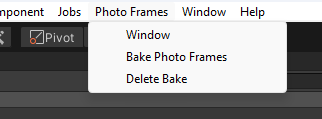
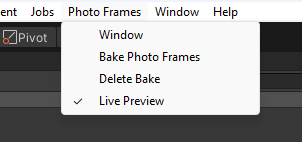
Adds live preview menu toggle, improves preview materials
- preview materials now use material property blocks instead of copying material

diff --git a/Special/PhotoFrame.cs b/Special/PhotoFrame.cs
@@ -25,8 +25,14 @@ namespace codec.PhotoFrame {
 
 		[NonSerialized] public RenderTexture resizeTexture;
 		[NonSerialized] public Texture photoInResizeTexture;
+		[NonSerialized] public MaterialPropertyBlock textureOverride;
+		[NonSerialized] public Material defaultMaterial;
 
 		public void Awake() {
+			if(!defaultMaterial) {
+				defaultMaterial = new Material(Shader.Find("Unlit/Texture"));
+				defaultMaterial.hideFlags = HideFlags.NotEditable;
+			}
 			//fixes duplication
 			if(!savedData && framePrefab) DestroyImmediate(framePrefab);
 			if(!savedData && meshFilter) DestroyImmediate(meshFilter);
@@ -224,8 +230,20 @@ namespace codec.PhotoFrame {
 			}
 		}
 
+		public void turnOffEditorPreview() {
+			if(savedData) return;
+			if(framePrefab) DestroyImmediate(framePrefab);
+			if(meshFilter) DestroyImmediate(meshFilter);
+			if(meshRenderer) DestroyImmediate(meshRenderer);
+			if(resizeTexture != null) resizeTexture.Release();
+			photoInResizeTexture = null;
+		}
+
 		public void updateEditorPreview() {
 			if(savedData) return;
+
+			bool livePreview = EditorPrefs.GetBool("wtf.codec.photo-frame-manager.livePreview", true);
+			if(!livePreview) return;
 
 			if(autoSelectFrameSize) doAutoSelectFrameSize();
 
@@ -250,6 +268,10 @@ namespace codec.PhotoFrame {
 				meshFilter.hideFlags = HideFlags.DontSaveInEditor | HideFlags.DontSaveInBuild | HideFlags.HideInInspector | HideFlags.NotEditable;
 			}
 
+			if(textureOverride == null) {
+				textureOverride = new MaterialPropertyBlock();
+			}
+
 			if(!meshRenderer) {
 				if(meshRenderer = gameObject.GetComponent<MeshRenderer>()) {
 					EditorUtility.SetDirty(meshRenderer);
@@ -265,14 +287,13 @@ namespace codec.PhotoFrame {
 			var size = getPhotoRealSize(frameAspectRatio);
 			SetupMesh(meshFilter.sharedMesh, size, uvMin, uvMax, false);
 
-			if(meshRenderer.sharedMaterial) DestroyImmediate(meshRenderer.sharedMaterial);
-			if(frameType && frameType.material) meshRenderer.sharedMaterial = Instantiate(frameType.material);
-			else meshRenderer.sharedMaterial = new Material(Shader.Find("Unlit/Texture"));
+			if(frameType && frameType.material) meshRenderer.sharedMaterial = frameType.material;
+			else meshRenderer.sharedMaterial = defaultMaterial;
 			updateResizeTexture();
-			if(frameType && frameType.textureSlot != "") meshRenderer.sharedMaterial.SetTexture(frameType.textureSlot, resizeTexture);
-			else meshRenderer.sharedMaterial.mainTexture = resizeTexture;
-
-			meshRenderer.sharedMaterial.hideFlags = HideFlags.HideInInspector | HideFlags.NotEditable;
+			textureOverride.Clear();
+			if(frameType && frameType.material && frameType.textureSlot != "") textureOverride.SetTexture(frameType.textureSlot, resizeTexture, UnityEngine.Rendering.RenderTextureSubElement.Default);
+			else textureOverride.SetTexture("_MainTex", resizeTexture, UnityEngine.Rendering.RenderTextureSubElement.Default);
+			meshRenderer.SetPropertyBlock(textureOverride);
 		}
 
 		public void setSavedData(string folder, Material material, Vector2 uvMin, Vector2 uvMax, bool uvRotate) {
@@ -285,7 +306,6 @@ namespace codec.PhotoFrame {
 				DestroyImmediate(meshFilter);
 			}
 			if(meshRenderer) {
-				if(meshRenderer.sharedMaterial) DestroyImmediate(meshRenderer.sharedMaterial);
 				DestroyImmediate(meshRenderer);
 			}
 

diff --git a/Editor/ManagerWindow.cs b/Editor/ManagerWindow.cs
@@ -9,13 +9,22 @@ using UnityEngine;
 using UnityEngine.SceneManagement;
 
 namespace codec.PhotoFrame {
+	[InitializeOnLoad]
 	public class ManagerWindow : EditorWindow {
 		public const string badData = "Misformatted Data";
 		public const string debugEditorPref = "wtf.codec.photo-frame-manager.debug";
+		public const string livePreviewEditorPref = "wtf.codec.photo-frame-manager.livePreview";
 
 		public int tabSelected;
 		public Vector2 scrollPosition;
 		public Vector2 debugScroll;
+
+		static ManagerWindow() {
+			EditorApplication.delayCall += () => {
+				bool livePreview = EditorPrefs.GetBool(livePreviewEditorPref, true);
+				Menu.SetChecked("Photo Frames/Live Preview", livePreview);
+			};
+		}
 
 		[MenuItem("Photo Frames/Window")]
 		[MenuItem("Window/Photo Frames")]
@@ -141,6 +150,19 @@ namespace codec.PhotoFrame {
 			finally {
 				AssetDatabase.StopAssetEditing();
 				EditorSceneManager.SaveScene(EditorSceneManager.GetActiveScene());
+			}
+		}
+
+		[MenuItem("Photo Frames/Live Preview")]
+		private static void ToggleAction() {
+			bool livePreview = !EditorPrefs.GetBool(livePreviewEditorPref, true);
+			if(livePreview) EditorPrefs.DeleteKey(livePreviewEditorPref);
+			else EditorPrefs.SetBool(livePreviewEditorPref, false);
+			Menu.SetChecked("Photo Frames/Live Preview", livePreview);
+
+			foreach(var photoFrame in FindObjectsOfType<PhotoFrame>()) {
+				if(livePreview) photoFrame.updateEditorPreview();
+				else photoFrame.turnOffEditorPreview();
 			}
 		}
 

diff --git a/Editor/PhotoFrameEditor.cs b/Editor/PhotoFrameEditor.cs
@@ -101,6 +101,10 @@ namespace codec.PhotoFrame {
 		public override void OnInspectorGUI() {
 			serializedObject.Update();
 
+			bool livePreview = EditorPrefs.GetBool(ManagerWindow.livePreviewEditorPref, true);
+
+			if(!livePreview) EditorGUILayout.HelpBox("To enable live preview toggle: Photo Frames > Live Preview", MessageType.Info);
+
 			bool anyLocked = false, doUnlock = false;
 			foreach(PhotoFrame pf in targets) {
 				if(pf.savedData) anyLocked = true;
@@ -185,7 +189,7 @@ namespace codec.PhotoFrame {
 			GUI.enabled = true;
 
 			var photoFrame = (PhotoFrame)target;
-			if(targets.Length == 1 && photoFrame.photo != null) {
+			if(livePreview && targets.Length == 1 && photoFrame.photo != null) {
 				photoFrame.updateResizeTexture();
 
 				photoFrame.getAspectRatios(out float photoAspectRatio, out float frameAspectRatio);
